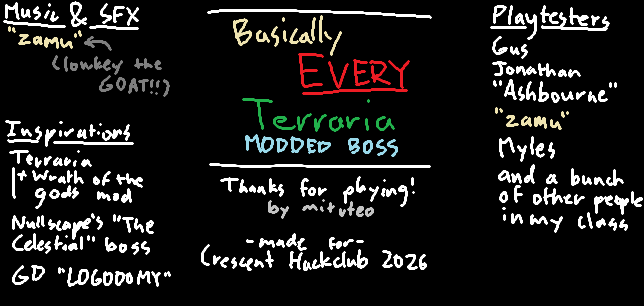
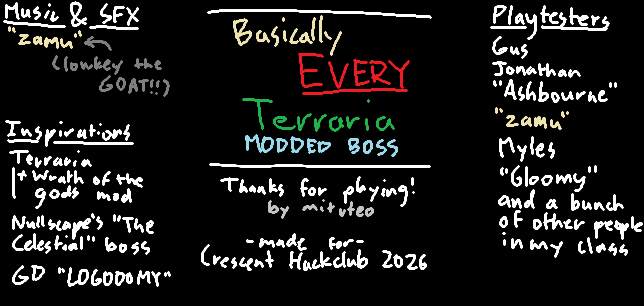
add readme and release

Changed region(s): [[0.7764, 0.5294, 1.0, 0.8529]]

diff --git a/README.md b/README.md
@@ -1,0 +1,13 @@
+<p align="center"> <img src="logo.png" alt='"Basically every Terraria modded boss" logo' width="50%"/></p>
+
+# BASICALLY EVERY TERRARIA MODDED BOSS
+A bullet hell boss fight game
+
+Made for Crescent Hack Club 2026
+
+---
+
+Visit the page [here](https://mitvteo.github.io/basically-every-modded-terraria-boss/) to play.
+
+
+
